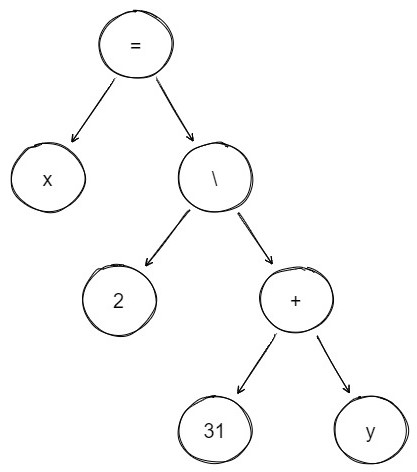
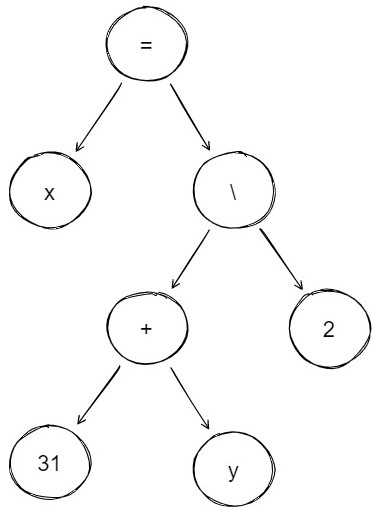
Fix AST and add more information

diff --git a/project.md b/project.md
@@ -473,10 +473,27 @@ e = a < d ? a++ : a = d
 
 # Время компиляции
 
-Если интересно, можно попробовать [самому засечь](https://stackoverflow.com/questions/3025443/how-to-calculate-gcc-compilation-time)
-время компиляции программы.
-[Здесь](https://github.com/Fawentus/fl-2021-hse-win/blob/proj/gcc_compilation_time/my_ex.md) можно посмотреть на анализ времени компиляции разных программ, который мне удалось получить.
-А [здесь](https://github.com/Fawentus/fl-2021-hse-win/blob/proj/gcc_compilation_time/ex.md) - анализ времени компиляции других пользователей.
+[Здесь](https://github.com/Fawentus/fl-2021-hse-win/blob/proj/gcc_compilation_time/my_ex.md) можно посмотреть на анализы времени компиляции разных программ, которые мне удалось получить.
+Использовала для этого самые простые программы, состоящие из одного файла, в которых не было
+сложных конструкций, и более содержательные программы. Их описание также можно найти в приведённом выше файле.
+[Здесь](https://github.com/Fawentus/fl-2021-hse-win/blob/proj/gcc_compilation_time/ex.md) приведены анализы времени компиляции других пользователей.
+
+Для получения этих данных использовался флаг `-ftime-report`. Более подробно, как
+самому засечь время компиляции программы можно узнать 
+[здесь](https://stackoverflow.com/questions/3025443/how-to-calculate-gcc-compilation-time).
+
+Пример отчета о времени компиляции:
+
+```c++
+Execution times (seconds)
+ preprocessing         :   0.02 ( 2%) usr   0.01 ( 5%) sys   0.05 ( 4%) wall     293 kB ( 0%) ggc
+ parser                :   0.54 (45%) usr   0.10 (53%) sys   0.71 (50%) wall   95339 kB (58%) ggc
+ name lookup           :   0.47 (39%) usr   0.04 (21%) sys   0.47 (33%) wall   20197 kB (12%) ggc
+ tree PRE              :   0.01 ( 1%) usr   0.00 ( 0%) sys   0.00 ( 0%) wall       1 kB ( 0%) ggc
+ varconst              :   0.00 ( 0%) usr   0.01 ( 5%) sys   0.00 ( 0%) wall      17 kB ( 0%) ggc
+ symout                :   0.17 (14%) usr   0.03 (16%) sys   0.18 (13%) wall   47092 kB (29%) ggc
+ TOTAL                 :   1.21             0.19             1.41             163493 kB
+```
 
 Чтобы было немного понятнее:
 
@@ -486,7 +503,7 @@ e = a < d ? a++ : a = d
 
 `wall` — wall clock time, время "по часам на стене", с учётом планировщика, лагов системы и вообще всего-всего
 
-Этих данных не так много, чтобы делать конкретные выводы о процентном соотношении времени работы разных этапов
+Собранных мною данных не так много, чтобы делать конкретные выводы о процентном соотношении времени работы разных этапов
 компиляции. Но даже не обладая специальными знаниями и не производя расчетов можно заметить, что на парсинг
 уходит приличная часть времени от всей компиляции. Утверждение, что *GCC* проводит чуть ли не 40% времени за синтаксическим анализом,
 не является беспочвенным. Опираясь на полученные результаты, смею предположить, что это действительно так.
